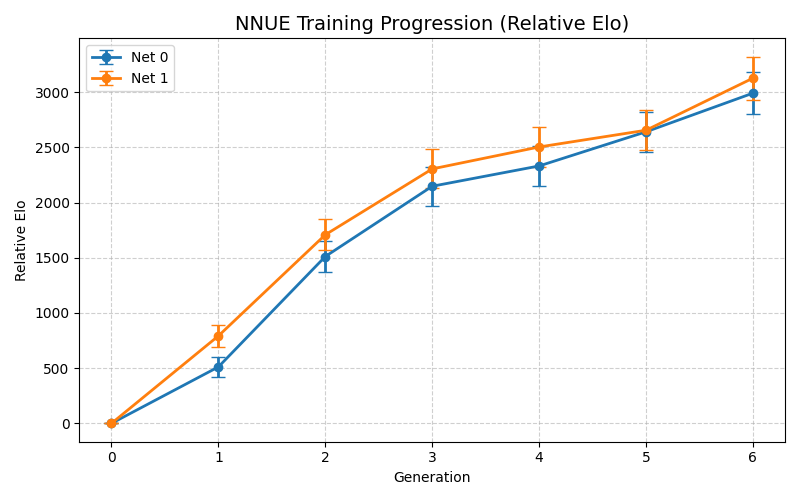
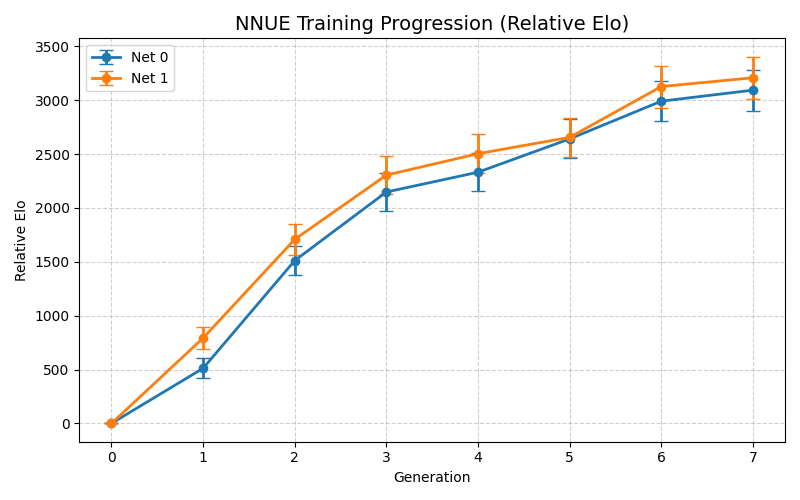
trained gen 7, ready for gen 3 release

diff --git a/src/datagen/datagen_config.rs b/src/datagen/datagen_config.rs
@@ -36,16 +36,16 @@ pub struct DatagenConfig {
 impl DatagenConfig {
     pub(crate) fn default() -> Self {
         Self {
-            nodes_per_move:        10_000,
+            nodes_per_move:        12_000,
             num_threads:           10,
             random_opening_plies:  8,
             target_positions:      10_000_000,
             adjudication_score:    2000,
             adjudication_plies:    15,
             draw_adjudication_score: 10,
-            net_0_path:            "../../nnue/run6_net_0/run6_net_0-10/quantised.bin".to_string(),
-            net_1_path:            "../../nnue/run6_net_0/run6_net_0-10/quantised.bin".to_string(),
-            output_dir:            "C:/Users/warre/RustroverProjects/FastPeaPea/nnue/data/run7".to_string(),
+            net_0_path:            "../../nnue/run7_net_0/run7_net_0-10/quantised.bin".to_string(),
+            net_1_path:            "../../nnue/run7_net_0/run7_net_0-10/quantised.bin".to_string(),
+            output_dir:            "C:/Users/warre/RustroverProjects/FastPeaPea/nnue/data/run8".to_string(),
         }
     }
 }

diff --git a/src/main.rs b/src/main.rs
@@ -31,7 +31,7 @@ use crate::tuner::perturb::perturb_params;
 fn main() {
 
     // Load in nnue
-    static NNUE: Network = unsafe { std::mem::transmute(*include_bytes!("../nnue/run6_net_0/run6_net_0-10/quantised.bin")) };
+    static NNUE: Network = unsafe { std::mem::transmute(*include_bytes!("../nnue/run3_net_1/run3_net_1-10/quantised.bin")) };
 
     // Initialize uci state (manages commands) and engine state (manages repetition stack, TT and contains params the engine is using)
     let stdin = io::stdin();

diff --git a/src/nnue/network.rs b/src/nnue/network.rs
@@ -1,9 +1,9 @@
-const HIDDEN_SIZE: usize = 1536;
+const HIDDEN_SIZE: usize = 64;
 const SCALE: i32 = 400;
 const QA: i16 = 255;
 const QB: i16 = 64;
 
-const NUM_OUTPUT_BUCKETS : usize = 8;
+const NUM_OUTPUT_BUCKETS : usize = 1;
 
 
 use shakmaty::{Chess, Color, Position, Role};

diff --git a/CHANGELOG.md b/CHANGELOG.md
@@ -11,10 +11,10 @@ The results for Gen x are always vs Gen x-1. For a more detailed match result se
 
 #### Elo gain per generation
 
-| Net       | Gen 0 | Gen 1               | Gen 2           | Gen 3               | Gen 4              | Gen 5              | Gen 6              |
-|-----------|-------|---------------------|-----------------|---------------------|--------------------|--------------------|--------------------|
-| **Net 0** | 0     | **+511.50 ± 92.45** | **+1000+ ± ?**  | **636.43 ± 109.02** | **183.78 ± 32.42** | **309.24 ± 40.38** | **350.17 ± 47.62** | 
-| **Net 1** | 0     | **+792.30 ± ?**     | **+916.01 ± ?** | **596.54 ± 106.05** | **198.81 ± 32.13** | **151.58 ± 28.05** | **471.62 ± 69.61** |
+| Net       | Gen 0 | Gen 1               | Gen 2           | Gen 3               | Gen 4              | Gen 5              | Gen 6              | Gen 6              |
+|-----------|-------|---------------------|-----------------|---------------------|--------------------|--------------------|--------------------|--------------------|
+| **Net 0** | 0     | **+511.50 ± 92.45** | **+1000+ ± ?**  | **636.43 ± 109.02** | **183.78 ± 32.42** | **309.24 ± 40.38** | **350.17 ± 47.62** | **102.28 ± 22.59** |
+| **Net 1** | 0     | **+792.30 ± ?**     | **+916.01 ± ?** | **596.54 ± 106.05** | **198.81 ± 32.13** | **151.58 ± 28.05** | **471.62 ± 69.61** | **81.86 ± 19.71**  |
 
 The plot below shows the training progression over the generations with error bars. 
 
@@ -36,6 +36,7 @@ The plot below shows the training progression over the generations with error ba
 | Gen 4          | Net0 vs Net1 | **-45.54 ± 15.98**   |
 | Gen 5          | Net0 vs Net1 | **21.91   ± 15.45**  |
 | Gen 6          | Net0 vs Net1 | **-73.68   ± 19.98** |
+| Gen 7          | Net0 vs Net1 | **   ± **            |
 ---
 
 #### Elo estimates*
@@ -297,6 +298,7 @@ Training parameters for this run :
 * 10k nodes per position
 * Initial LR : 0.001
 * Final LR : 0.0001 * 0.3f32.powi(5)
+* ~2 epochs
 * start WDL : 0.0
 * end WDL : 0.25
 
@@ -356,3 +358,59 @@ LLR: 2.96 (100.5%) (-2.94, 2.94) [0.00, 5.00]
 ```
 
 ## 10. Generation 7 
+
+Turned the knobs on the hyperparameters a lot here. These ones seemed to give the best performance.
+Trained both Net 0 and Net 1 with the same data and parameters.
+
+Training parameters for this run :
+* Positions : 20M Net 0
+* 10k nodes per position
+* Initial LR : 0.0005
+* Final LR : 0.0001 * 0.3f32.powi(5)
+* ~2 epochs
+* start WDL : 0.0
+* end WDL : 0.15
+
+
+
+### 10.1. Results vs previous generation
+
+
+#### 10.1.1. Net 0
+
+```
+Results of GEN7_NET0 vs GEN6_NET0 (8+0.08, 1t, 256MB, book.epd):
+Elo: 102.28 +/- 22.59, nElo: 129.68 +/- 27.00
+Games: 636, Wins: 309, Losses: 127, Draws: 200, Points: 409.0 (64.31 %)
+```
+
+#### 10.1.2. Net 1
+
+```
+Results of GEN7_NET1 vs GEN6_NET1 (8+0.08, 1t, 256MB, book.epd):
+Elo: 81.65 +/- 19.71, nElo: 106.71 +/- 24.80
+Games: 754, Wins: 344, Losses: 170, Draws: 240, Points: 464.0 (61.54 %)
+```
+
+
+### 10.2. Results Net 0 vs Net 1
+
+```
+
+```
+
+### 10.3. Elo estimate
+
+
+
+**Net 0**
+
+```
+
+```
+
+**Net 1**
+
+```
+
+```

diff --git a/README.md b/README.md
@@ -115,7 +115,7 @@ Below is a table of Elo estimates from having the engine play against other engi
 | v3.0    | 1981     (Net 1)  | /                                                       | /                                                           |
 | v4.0    | 2271     (Net 1)  | /                                                       | /                                                           |
 | v5.0    | 2501     (Net 0)  | /                                                       | /                                                           |
-| v6.0    | /                 | /                                                       | /                                                           |
+| v6.0    | 2811     (Net 1)  | /                                                       | /                                                           |
 
 
 
@@ -203,10 +203,10 @@ This project is licensed under the [GNU General Public License v3.0][license-lin
 [release-badge]: https://img.shields.io/github/v/release/WGCodings/Pea?style=for-the-badge&color=violet
 [release-link]: https://github.com/WGCodings/Pea/releases/latest
 
-[lichess-badge0]: https://img.shields.io/badge/Play-Bigbrain-green?logo=lichess&style=for-the-badge
+[lichess-badge0]: https://img.shields.io/badge/Play-Net_0_Gen_6-green?logo=lichess&style=for-the-badge
 [lichess-link0]: https://lichess.org/@/PeaNet0
 
-[lichess-badge1]: https://img.shields.io/badge/Play-Smallbrain-green?logo=lichess&style=for-the-badge
+[lichess-badge1]: https://img.shields.io/badge/Play-Net_1_Gen_6-green?logo=lichess&style=for-the-badge
 [lichess-link1]: https://lichess.org/@/PeaNet1
 
 <!-- Links -->
